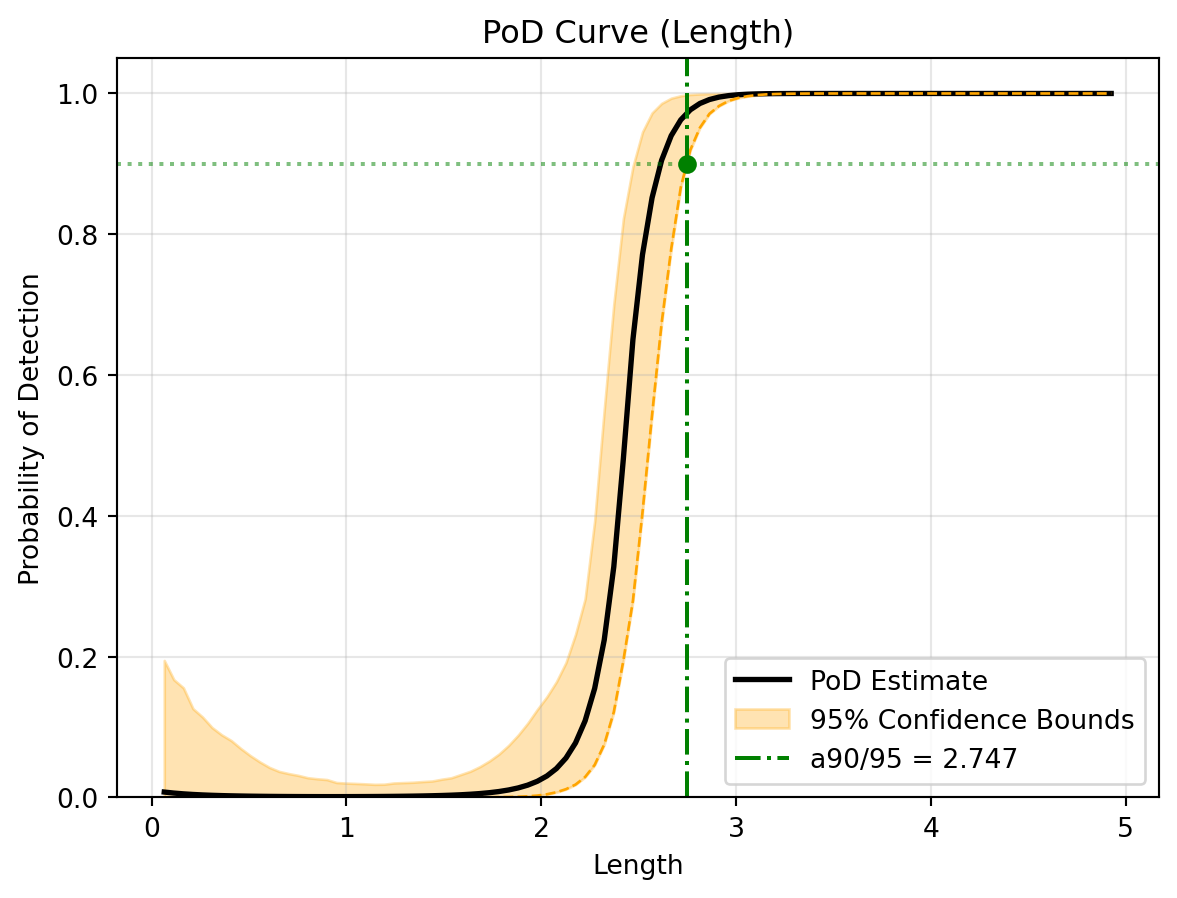
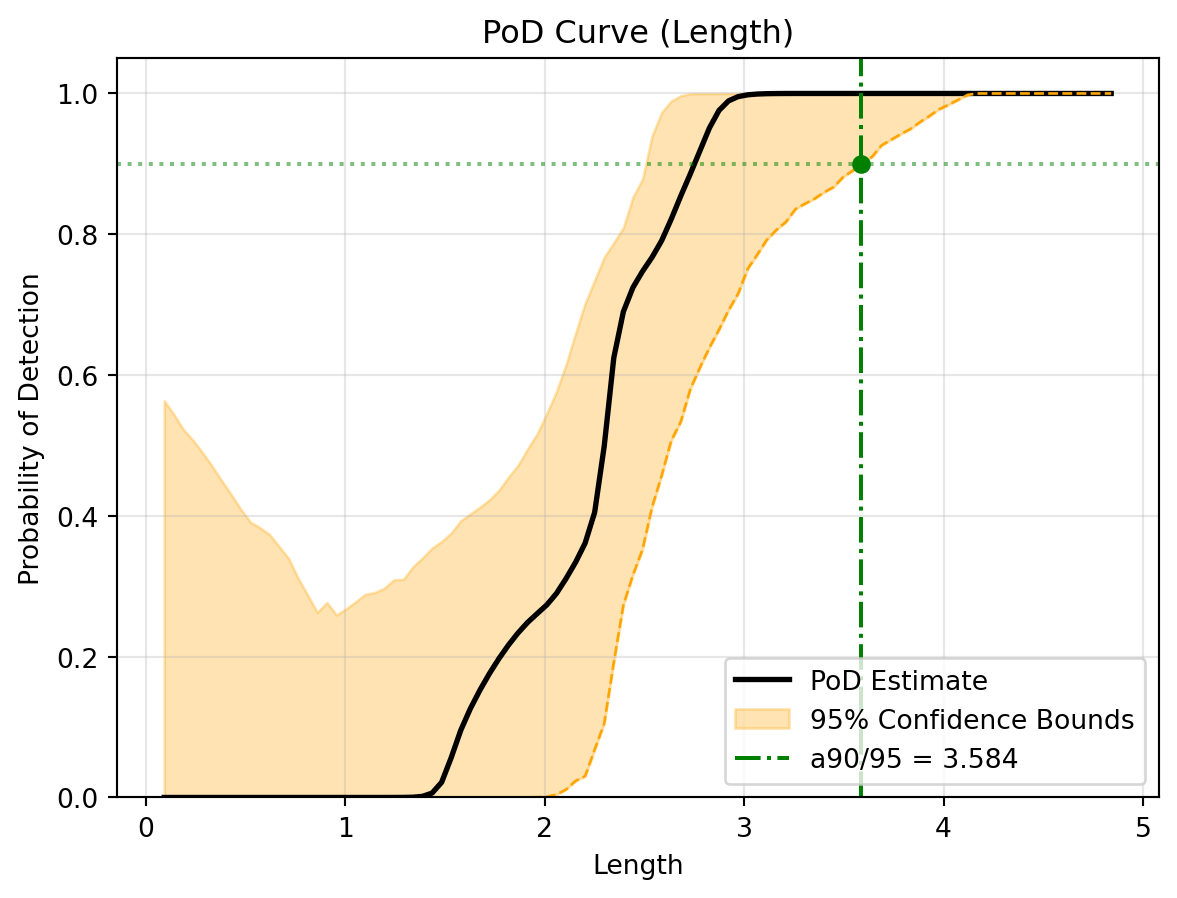
Built site for gh-pages

diff --git a/docs/optimisation.html b/docs/optimisation.html
@@ -351,7 +351,7 @@ pre > code.sourceCode > span > a:first-child::before { text-decoration: underlin
 <h3 class="anchored" data-anchor-id="define-a-mock-solver">1. Define a “Mock” Solver</h3>
 <p>For this tutorial, we will use a Python one-liner as our “solver” instead of a complex physics engine. We use <code>python -c</code> to run this as if it were an external Command Line Interface (CLI) tool.</p>
 <p>Notice how the <code>SOLVER_CMD</code> utilises the <code>{input}</code> and <code>{output}</code> placeholders.</p>
-<div id="2fba891e" class="cell" data-execution_count="1">
+<div id="17d8f4fd" class="cell" data-execution_count="1">
 <div class="code-copy-outer-scaffold"><div class="sourceCode cell-code" id="cb1"><pre class="sourceCode python code-with-copy"><code class="sourceCode python"><span id="cb1-1"><a href="#cb1-1" aria-hidden="true" tabindex="-1"></a><span class="im">import</span> sys</span>
 <span id="cb1-2"><a href="#cb1-2" aria-hidden="true" tabindex="-1"></a></span>
 <span id="cb1-3"><a href="#cb1-3" aria-hidden="true" tabindex="-1"></a><span class="co"># A complex, non-linear physics model to trigger multiple optimisation loops</span></span>
@@ -367,7 +367,7 @@ pre > code.sourceCode > span > a:first-child::before { text-decoration: underlin
 <section id="configure-the-study" class="level3">
 <h3 class="anchored" data-anchor-id="configure-the-study">2. Configure the Study</h3>
 <p>We define our input variables and the ranges we want to explore.</p>
-<div id="de8ac7be" class="cell" data-execution_count="2">
+<div id="34b9fde9" class="cell" data-execution_count="2">
 <div class="code-copy-outer-scaffold"><div class="sourceCode cell-code" id="cb2"><pre class="sourceCode python code-with-copy"><code class="sourceCode python"><span id="cb2-1"><a href="#cb2-1" aria-hidden="true" tabindex="-1"></a><span class="im">from</span> digiqual.core <span class="im">import</span> SimulationStudy</span>
 <span id="cb2-2"><a href="#cb2-2" aria-hidden="true" tabindex="-1"></a></span>
 <span id="cb2-3"><a href="#cb2-3" aria-hidden="true" tabindex="-1"></a><span class="co"># Define inputs ranges</span></span>
@@ -380,7 +380,7 @@ pre > code.sourceCode > span > a:first-child::before { text-decoration: underlin
 <section id="run-optimisation" class="level3">
 <h3 class="anchored" data-anchor-id="run-optimisation">3. Run Optimisation</h3>
 <p>This single command handles the entire Active Learning loop:</p>
-<div id="604f8d99" class="cell" data-execution_count="3">
+<div id="af8f615b" class="cell" data-execution_count="3">
 <div class="code-copy-outer-scaffold"><div class="sourceCode cell-code" id="cb3"><pre class="sourceCode python code-with-copy"><code class="sourceCode python"><span id="cb3-1"><a href="#cb3-1" aria-hidden="true" tabindex="-1"></a>study.optimise(</span>
 <span id="cb3-2"><a href="#cb3-2" aria-hidden="true" tabindex="-1"></a>    command<span class="op">=</span>SOLVER_CMD,</span>
 <span id="cb3-3"><a href="#cb3-3" aria-hidden="true" tabindex="-1"></a>    ranges<span class="op">=</span>ranges,</span>
@@ -405,18 +405,39 @@ Diagnostics flagged issues. Initiating Active Learning...
    -&gt; Executing: /Users/jt17630/Documents/DigiQual/.venv/bin/python3 -c 'import pandas as pd, numpy as np; df=pd.read_csv("sim_input.csv"); df["Signal"] = 5 + df["Length"] ** 3 + (df["Length"] * np.random.normal(0, 1, len(df))); df.to_csv("sim_output.csv", index=False)'
 
 --- Iteration 2: Diagnostics Check ---
+&gt;&gt; Model invalid. Refining design...
+Diagnostics flagged issues. Initiating Active Learning...
+ -&gt; Strategy: Exploitation (Targeting high uncertainty regions)
+--- Running Batch 2 (10 points) ---
+   -&gt; Executing: /Users/jt17630/Documents/DigiQual/.venv/bin/python3 -c 'import pandas as pd, numpy as np; df=pd.read_csv("sim_input.csv"); df["Signal"] = 5 + df["Length"] ** 3 + (df["Length"] * np.random.normal(0, 1, len(df))); df.to_csv("sim_output.csv", index=False)'
+
+--- Iteration 3: Diagnostics Check ---
+&gt;&gt; Model invalid. Refining design...
+Diagnostics flagged issues. Initiating Active Learning...
+ -&gt; Strategy: Exploitation (Targeting high uncertainty regions)
+--- Running Batch 3 (10 points) ---
+   -&gt; Executing: /Users/jt17630/Documents/DigiQual/.venv/bin/python3 -c 'import pandas as pd, numpy as np; df=pd.read_csv("sim_input.csv"); df["Signal"] = 5 + df["Length"] ** 3 + (df["Length"] * np.random.normal(0, 1, len(df))); df.to_csv("sim_output.csv", index=False)'
+
+--- Iteration 4: Diagnostics Check ---
+&gt;&gt; Model invalid. Refining design...
+Diagnostics flagged issues. Initiating Active Learning...
+ -&gt; Strategy: Exploitation (Targeting high uncertainty regions)
+--- Running Batch 4 (10 points) ---
+   -&gt; Executing: /Users/jt17630/Documents/DigiQual/.venv/bin/python3 -c 'import pandas as pd, numpy as np; df=pd.read_csv("sim_input.csv"); df["Signal"] = 5 + df["Length"] ** 3 + (df["Length"] * np.random.normal(0, 1, len(df))); df.to_csv("sim_output.csv", index=False)'
+
+--- Iteration 5: Diagnostics Check ---
 
 &gt;&gt;&gt; CONVERGENCE REACHED! &lt;&lt;&lt;
 
 ----------------------------------------
 &gt;&gt;&gt; SEARCH COMPLETE &lt;&lt;&lt;
-Total Time:      0.01 minutes
-Successful Runs: 30
+Total Time:      0.03 minutes
+Successful Runs: 60
 Failed Runs:     0 (in graveyard)
-Total Attempted: 30
+Total Attempted: 60
 ----------------------------------------
 
-Data updated. Total rows: 30</code></pre>
+Data updated. Total rows: 60</code></pre>
 </div>
 </div>
 </section>
@@ -432,17 +453,17 @@ Data updated. Total rows: 30</code></pre>
 <div aria-describedby="fig-optimisation-results-caption-0ceaefa1-69ba-4598-a22c-09a6ac19f8ca">
 <div class="quarto-layout-row">
 <div class="cell-output cell-output-stdout quarto-layout-cell" style="flex-basis: 100.0%;justify-content: flex-start;">
-<pre><code>Total Simulations Run: 30
+<pre><code>Total Simulations Run: 60
 Running validation...
-Validation passed. 30 valid rows ready.
+Validation passed. 60 valid rows ready.
 --- Starting Reliability Analysis (PoIs: ['Length']) ---
 1. Selecting Mean Model (Cross-Validation)...
--&gt; Selected Model: Polynomial (Degree 2)
+-&gt; Selected Model: Polynomial (Degree 5)
 2. Fitting Variance Model (Kernel Smoothing)...
    -&gt; Optimizing bandwidth via LOO-CV...
-   -&gt; Smoothing Bandwidth: 38.0102
+   -&gt; Smoothing Bandwidth: 1.6321
 3. Inferring Error Distribution (AIC)...
-   -&gt; Selected Distribution: laplace
+   -&gt; Selected Distribution: norm
 4. Computing PoD Curve...
 5. Running Bootstrap (1000 iterations)...
       -&gt; [ 10%] Completed 100 iterations
@@ -455,7 +476,7 @@ Validation passed. 30 valid rows ready.
       -&gt; [ 80%] Completed 800 iterations
       -&gt; [ 90%] Completed 900 iterations
       -&gt; [100%] Completed 1000 iterations
-   -&gt; a90/95 Reliability Index: 2.747
+   -&gt; a90/95 Reliability Index: 3.584
 --- Analysis Complete ---</code></pre>
 </div>
 </div>
@@ -514,7 +535,7 @@ Figure&nbsp;1
 <p>When connecting DigiQual to external engines like MATLAB or Ansys, you will write wrapper scripts. The script reads the input coordinates generated by DigiQual, triggers the solver, and writes an output CSV. See below for examples.</p>
 <section id="example-a-python-wrapper" class="level3">
 <h3 class="anchored" data-anchor-id="example-a-python-wrapper">Example A: Python Wrapper</h3>
-<div id="b90d4ccd" class="cell" data-execution_count="5">
+<div id="5a156412" class="cell" data-execution_count="5">
 <div class="code-copy-outer-scaffold"><div class="sourceCode cell-code" id="cb7"><pre class="sourceCode python code-with-copy"><code class="sourceCode python"><span id="cb7-1"><a href="#cb7-1" aria-hidden="true" tabindex="-1"></a><span class="im">import</span> sys, pandas <span class="im">as</span> pd</span>
 <span id="cb7-2"><a href="#cb7-2" aria-hidden="true" tabindex="-1"></a><span class="im">from</span> beam_model <span class="im">import</span> simulate_beam</span>
 <span id="cb7-3"><a href="#cb7-3" aria-hidden="true" tabindex="-1"></a></span>
@@ -568,7 +589,7 @@ Figure&nbsp;1
 <span id="cb9-22"><a href="#cb9-22" aria-hidden="true" tabindex="-1"></a>    <span class="va">exit</span><span class="op">;</span></span>
 <span id="cb9-23"><a href="#cb9-23" aria-hidden="true" tabindex="-1"></a><span class="kw">end</span></span></code></pre></div><button title="Copy to Clipboard" class="code-copy-button"><i class="bi"></i></button></div>
 <p><strong>3. The DigiQual Command</strong> We construct a command that launches MATLAB without the graphical interface (<code>-batch</code>), tells it to run our wrapper, and safely injects the <code>{input}</code> and <code>{output}</code> paths as strings.</p>
-<div id="9d961d1f" class="cell" data-execution_count="6">
+<div id="85dc4019" class="cell" data-execution_count="6">
 <div class="code-copy-outer-scaffold"><div class="sourceCode cell-code" id="cb10"><pre class="sourceCode python code-with-copy"><code class="sourceCode python"><span id="cb10-1"><a href="#cb10-1" aria-hidden="true" tabindex="-1"></a><span class="co"># In your main study script</span></span>
 <span id="cb10-2"><a href="#cb10-2" aria-hidden="true" tabindex="-1"></a>SOLVER_CMD <span class="op">=</span> <span class="st">"matlab -batch </span><span class="ch">\"</span><span class="st">matlab_wrapper('</span><span class="sc">{input}</span><span class="st">', '</span><span class="sc">{output}</span><span class="st">')</span><span class="ch">\"</span><span class="st">"</span></span>
 <span id="cb10-3"><a href="#cb10-3" aria-hidden="true" tabindex="-1"></a><span class="co"># study.optimise(command=SOLVER_CMD, ...)</span></span></code></pre></div><button title="Copy to Clipboard" class="code-copy-button"><i class="bi"></i></button></div>

diff --git a/docs/qs_class.html b/docs/qs_class.html
@@ -300,7 +300,7 @@ Note
 <section id="setup-data-generation" class="level3">
 <h3 class="anchored" data-anchor-id="setup-data-generation">1. Setup &amp; Data Generation</h3>
 <p>We’ll define a simulated physics function with heteroscedastic noise and generate an initial design containing a deliberate gap between 3mm and 7mm.</p>
-<div id="3ab18d75" class="cell" data-execution_count="1">
+<div id="8b950a92" class="cell" data-execution_count="1">
 <div class="code-copy-outer-scaffold"><div class="sourceCode cell-code" id="cb1"><pre class="sourceCode python code-with-copy"><code class="sourceCode python"><span id="cb1-1"><a href="#cb1-1" aria-hidden="true" tabindex="-1"></a><span class="im">import</span> numpy <span class="im">as</span> np</span>
 <span id="cb1-2"><a href="#cb1-2" aria-hidden="true" tabindex="-1"></a><span class="im">import</span> pandas <span class="im">as</span> pd</span>
 <span id="cb1-3"><a href="#cb1-3" aria-hidden="true" tabindex="-1"></a><span class="im">import</span> matplotlib.pyplot <span class="im">as</span> plt</span>
@@ -373,7 +373,7 @@ Warning
 <p>Because of our deliberate gap, we expect the diagnostic engine to flag the <strong>Input Coverage</strong> test as failed.</p>
 </div>
 </div>
-<div id="2a21b298" class="cell" data-execution_count="2">
+<div id="48b58015" class="cell" data-execution_count="2">
 <div class="code-copy-outer-scaffold"><div class="sourceCode cell-code" id="cb3"><pre class="sourceCode python code-with-copy"><code class="sourceCode python"><span id="cb3-1"><a href="#cb3-1" aria-hidden="true" tabindex="-1"></a>study.diagnose()</span></code></pre></div><button title="Copy to Clipboard" class="code-copy-button"><i class="bi"></i></button></div>
 <div class="cell-output cell-output-stdout">
 <pre><code>Running validation...
@@ -402,7 +402,7 @@ Checking sample sufficiency...</code></pre>
 <td>Input Coverage</td>
 <td>Length</td>
 <td>Max Gap Ratio</td>
-<td>0.4126</td>
+<td>0.4132</td>
 <td>&lt; 0.20</td>
 <td>False</td>
 </tr>
@@ -411,7 +411,7 @@ Checking sample sufficiency...</code></pre>
 <td>Input Coverage</td>
 <td>Angle</td>
 <td>Max Gap Ratio</td>
-<td>0.0497</td>
+<td>0.0944</td>
 <td>&lt; 0.20</td>
 <td>True</td>
 </tr>
@@ -420,7 +420,7 @@ Checking sample sufficiency...</code></pre>
 <td>Input Coverage</td>
 <td>Roughness</td>
 <td>Max Gap Ratio</td>
-<td>0.0628</td>
+<td>0.0480</td>
 <td>&lt; 0.20</td>
 <td>True</td>
 </tr>
@@ -429,7 +429,7 @@ Checking sample sufficiency...</code></pre>
 <td>Model Fit (CV)</td>
 <td>Signal</td>
 <td>Mean R2 Score</td>
-<td>0.9967</td>
+<td>0.9988</td>
 <td>&gt; 0.50</td>
 <td>True</td>
 </tr>
@@ -438,7 +438,7 @@ Checking sample sufficiency...</code></pre>
 <td>Bootstrap Convergence</td>
 <td>Signal</td>
 <td>Avg CV (Rel Std Dev)</td>
-<td>0.0248</td>
+<td>0.0159</td>
 <td>&lt; 0.15</td>
 <td>True</td>
 </tr>
@@ -447,7 +447,7 @@ Checking sample sufficiency...</code></pre>
 <td>Bootstrap Convergence</td>
 <td>Signal</td>
 <td>Max CV (Rel Std Dev)</td>
-<td>0.0542</td>
+<td>0.0323</td>
 <td>&lt; 0.30</td>
 <td>True</td>
 </tr>
@@ -466,7 +466,7 @@ Checking sample sufficiency...</code></pre>
 <li><strong>Generate:</strong> It outputs a dataframe of new input coordinates.</li>
 <li><strong>Execute &amp; Store:</strong> You run your external simulation on these points and append the results back using <code>add_data()</code>.</li>
 </ol>
-<div id="8b7925fb" class="cell" data-execution_count="3">
+<div id="b7e6f012" class="cell" data-execution_count="3">
 <div class="code-copy-outer-scaffold"><div class="sourceCode cell-code" id="cb5"><pre class="sourceCode python code-with-copy"><code class="sourceCode python"><span id="cb5-1"><a href="#cb5-1" aria-hidden="true" tabindex="-1"></a><span class="co"># Generate active learning samples (20 points to fill the gap)</span></span>
 <span id="cb5-2"><a href="#cb5-2" aria-hidden="true" tabindex="-1"></a>new_samples <span class="op">=</span> study.refine(n_points<span class="op">=</span><span class="dv">20</span>)</span>
 <span id="cb5-3"><a href="#cb5-3" aria-hidden="true" tabindex="-1"></a></span>
@@ -483,7 +483,7 @@ Data updated. Total rows: 100</code></pre>
 </div>
 </div>
 <p>Now we verify that the issue is resolved:</p>
-<div id="84e6e1a4" class="cell" data-execution_count="4">
+<div id="391c8183" class="cell" data-execution_count="4">
 <div class="code-copy-outer-scaffold"><div class="sourceCode cell-code" id="cb7"><pre class="sourceCode python code-with-copy"><code class="sourceCode python"><span id="cb7-1"><a href="#cb7-1" aria-hidden="true" tabindex="-1"></a><span class="co"># Re-run diagnostics to confirm the green light</span></span>
 <span id="cb7-2"><a href="#cb7-2" aria-hidden="true" tabindex="-1"></a>study.diagnose()</span></code></pre></div><button title="Copy to Clipboard" class="code-copy-button"><i class="bi"></i></button></div>
 <div class="cell-output cell-output-stdout">
@@ -513,7 +513,7 @@ Checking sample sufficiency...</code></pre>
 <td>Input Coverage</td>
 <td>Length</td>
 <td>Max Gap Ratio</td>
-<td>0.0657</td>
+<td>0.0753</td>
 <td>&lt; 0.20</td>
 <td>True</td>
 </tr>
@@ -522,7 +522,7 @@ Checking sample sufficiency...</code></pre>
 <td>Input Coverage</td>
 <td>Angle</td>
 <td>Max Gap Ratio</td>
-<td>0.0473</td>
+<td>0.0629</td>
 <td>&lt; 0.20</td>
 <td>True</td>
 </tr>
@@ -531,7 +531,7 @@ Checking sample sufficiency...</code></pre>
 <td>Input Coverage</td>
 <td>Roughness</td>
 <td>Max Gap Ratio</td>
-<td>0.0488</td>
+<td>0.0480</td>
 <td>&lt; 0.20</td>
 <td>True</td>
 </tr>
@@ -540,7 +540,7 @@ Checking sample sufficiency...</code></pre>
 <td>Model Fit (CV)</td>
 <td>Signal</td>
 <td>Mean R2 Score</td>
-<td>0.9962</td>
+<td>0.9980</td>
 <td>&gt; 0.50</td>
 <td>True</td>
 </tr>
@@ -549,7 +549,7 @@ Checking sample sufficiency...</code></pre>
 <td>Bootstrap Convergence</td>
 <td>Signal</td>
 <td>Avg CV (Rel Std Dev)</td>
-<td>0.0212</td>
+<td>0.0147</td>
 <td>&lt; 0.15</td>
 <td>True</td>
 </tr>
@@ -558,7 +558,7 @@ Checking sample sufficiency...</code></pre>
 <td>Bootstrap Convergence</td>
 <td>Signal</td>
 <td>Max CV (Rel Std Dev)</td>
-<td>0.0462</td>
+<td>0.0314</td>
 <td>&lt; 0.30</td>
 <td>True</td>
 </tr>
@@ -600,7 +600,7 @@ Tip
 -&gt; Selected Model: Polynomial (Degree 2)
 2. Fitting Variance Model (Kernel Smoothing)...
    -&gt; Optimizing bandwidth via LOO-CV...
-   -&gt; Smoothing Bandwidth: 2.9597
+   -&gt; Smoothing Bandwidth: 3.8465
 3. Inferring Error Distribution (AIC)...
    -&gt; Selected Distribution: norm
 4. Computing PoD Curve...
@@ -615,7 +615,7 @@ Tip
       -&gt; [ 80%] Completed 800 iterations
       -&gt; [ 90%] Completed 900 iterations
       -&gt; [100%] Completed 1000 iterations
-   -&gt; a90/95 Reliability Index: 2.951
+   -&gt; a90/95 Reliability Index: 2.898
 --- Analysis Complete ---</code></pre>
 </div>
 </div>

diff --git a/docs/gui.html b/docs/gui.html
@@ -294,7 +294,7 @@ pre > code.sourceCode > span > a:first-child::before { text-decoration: underlin
 <section id="option-b-from-a-python-script" class="level3">
 <h3 class="anchored" data-anchor-id="option-b-from-a-python-script">Option B: From a Python Script</h3>
 <p>If you are already working inside a Python script or a Jupyter environment, you can launch it locally using the built-in UI function.</p>
-<div id="c339e1b6" class="cell" data-execution_count="1">
+<div id="15c7f8ae" class="cell" data-execution_count="1">
 <div class="code-copy-outer-scaffold"><div class="sourceCode cell-code" id="cb4"><pre class="sourceCode python code-with-copy"><code class="sourceCode python"><span id="cb4-1"><a href="#cb4-1" aria-hidden="true" tabindex="-1"></a><span class="co"># Launch the local application</span></span>
 <span id="cb4-2"><a href="#cb4-2" aria-hidden="true" tabindex="-1"></a><span class="im">from</span> digiqual <span class="im">import</span> dq_ui</span>
 <span id="cb4-3"><a href="#cb4-3" aria-hidden="true" tabindex="-1"></a></span>
